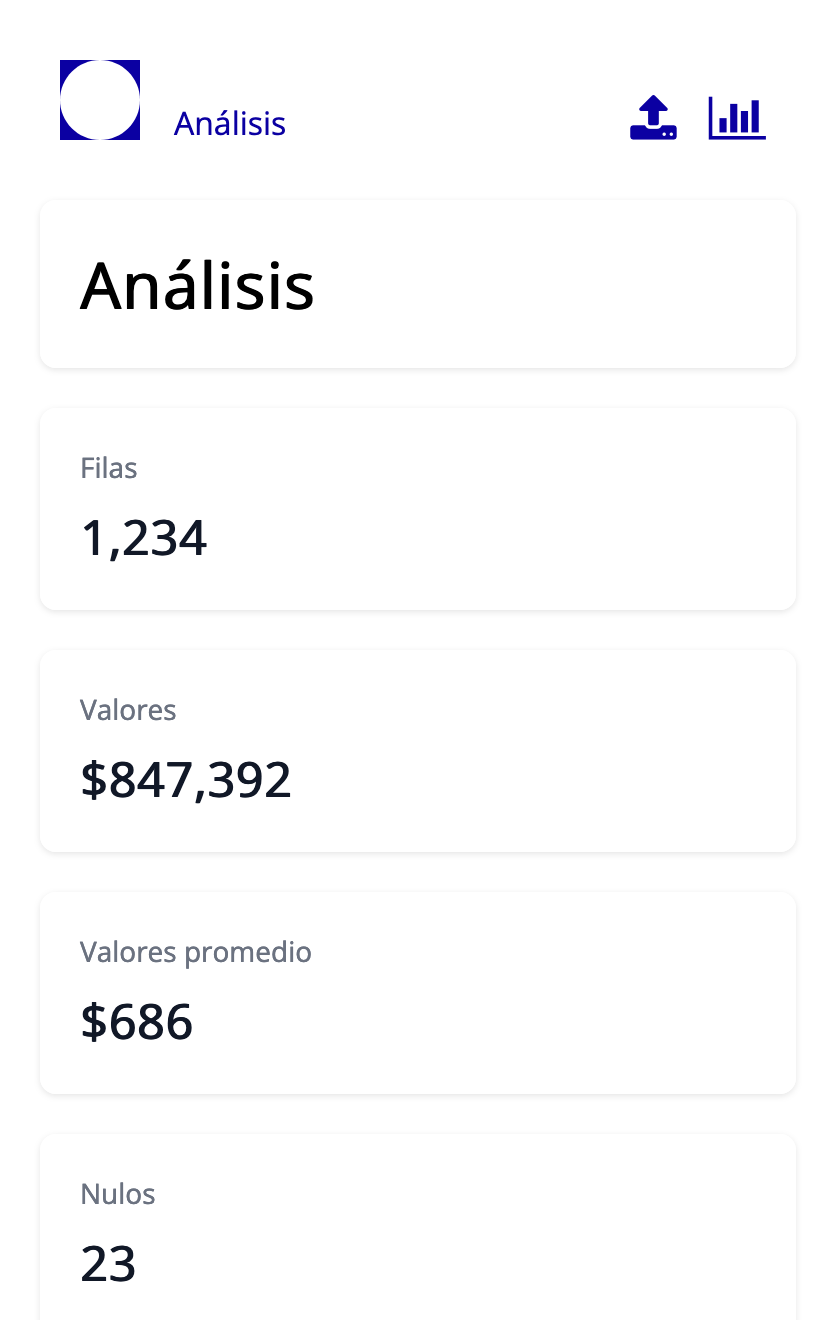
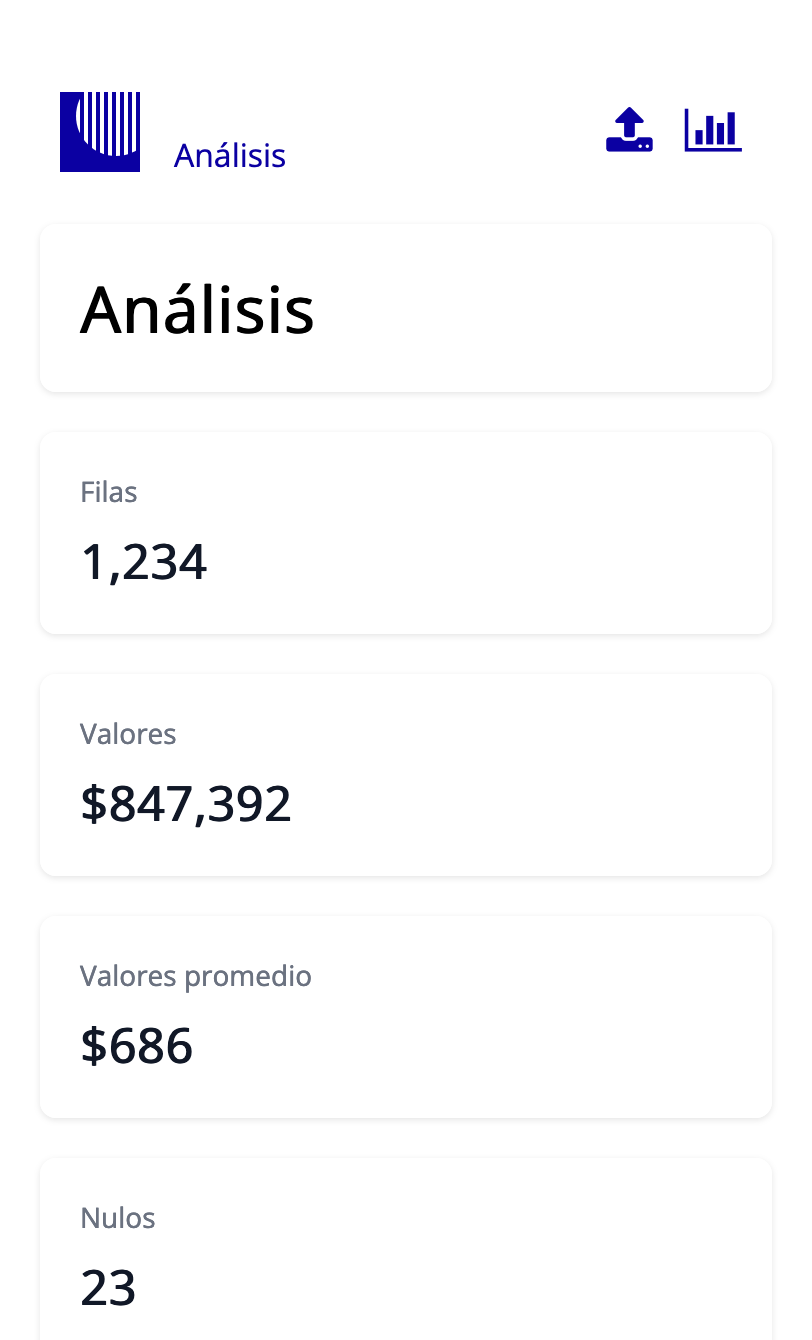
A R P A P P 1.0

diff --git a/static/chat.css b/static/chat.css
@@ -7,7 +7,7 @@
 }
 
 body {
-  background-color: rgb(255, 255, 255);
+  background-color: #ffffff;
   font-family: 'Open Sans', sans-serif;
   min-height: 100vh;
   display: flex;
@@ -16,15 +16,57 @@ body {
   
 }
 
+/*
+.logo {
+  cursor: pointer;
+  margin: 1rem auto; 
+  width: 70px;
+  height: 70px;
+  background-color: #0b00a2;
+  position: relative;
+}
+
+.logo:hover {
+  background-color: #1d10d3;
+}
+
+.logo::before {
+  content: "";
+  width: 70px;
+  height: 70px;
+  background-color: #f5f9fa;
+  border-radius: 50%;
+  position: absolute;
+  top: 50%;
+  left: 50%;
+  transform: translate(-50%, -50%);
+}
+*/
+
 .logoIN {
   cursor: pointer;
-  margin-bottom: 20px;
+  margin: 1rem auto;
   width: 40px;
   height: 40px;
   background-color: #0b00a2;
   position: relative;
   display: inline-flex;
   text-decoration:none
+}
+.logoIN::before {
+  content: "";
+  width: 40px;
+  height: 40px;
+  border-radius: 50%;
+  position: absolute;
+  top: 30%;
+  left: 70%;
+  transform: translate(-50%, -50%);
+  background-image: linear-gradient(to right, 
+      #ffffff 2px, transparent 1.5px,
+      transparent 1.5px, #ffffff 1.5px,
+      #ffffff 2px, transparent 1.5px);
+  background-size: 4px 100%; 
 }
 
 .nomPag{
@@ -37,19 +79,6 @@ body {
 
 .material-icons{
   color: #0b00a2;
-
-}
-.logoIN::before {
-  content: "";
-  display: block;
-  width: 40px;
-  height: 40px;
-  background-color: rgb(255, 255, 255);
-  border-radius: 50%;
-  position: absolute;
-  top: 50%;
-  left: 50%;
-  transform: translate(-50%, -50%);
 }
 
 .topnav i{
@@ -146,7 +175,7 @@ body {
   box-shadow: 0 4px 8px 0 rgba(0, 0, 0, 0.2);
   padding: 25px;
   text-align: center;
-  background-color: rgb(255, 255, 255);
+  background-color: #ffffff;
   border-radius: 10px;
   position: relative;
   width: 100%;

diff --git a/static/file.css b/static/file.css
@@ -16,15 +16,57 @@ body {
   
 }
 
+/*
+.logo {
+  cursor: pointer;
+  margin: 1rem auto; 
+  width: 70px;
+  height: 70px;
+  background-color: #0b00a2;
+  position: relative;
+}
+
+.logo:hover {
+  background-color: #1d10d3;
+}
+
+.logo::before {
+  content: "";
+  width: 70px;
+  height: 70px;
+  background-color: #f5f9fa;
+  border-radius: 50%;
+  position: absolute;
+  top: 50%;
+  left: 50%;
+  transform: translate(-50%, -50%);
+}
+*/
+
 .logoIN {
   cursor: pointer;
-  margin-bottom: 20px;
+  margin: 1rem auto;
   width: 40px;
   height: 40px;
   background-color: #0b00a2;
   position: relative;
   display: inline-flex;
   text-decoration:none
+}
+.logoIN::before {
+  content: "";
+  width: 40px;
+  height: 40px;
+  border-radius: 50%;
+  position: absolute;
+  top: 30%;
+  left: 70%;
+  transform: translate(-50%, -50%);
+  background-image: linear-gradient(to right, 
+      #ffffff 2px, transparent 1.5px,
+      transparent 1.5px, #ffffff 1.5px,
+      #ffffff 2px, transparent 1.5px);
+  background-size: 4px 100%; 
 }
 
 .nomPag{
@@ -38,18 +80,6 @@ body {
 .material-icons{
   color: #0b00a2;
 
-}
-.logoIN::before {
-  content: "";
-  display: block;
-  width: 40px;
-  height: 40px;
-  background-color: rgb(255, 255, 255);
-  border-radius: 50%;
-  position: absolute;
-  top: 50%;
-  left: 50%;
-  transform: translate(-50%, -50%);
 }
 
 .topnav i{

diff --git a/static/styleIN.css b/static/styleIN.css
@@ -15,6 +15,33 @@ body {
   padding: 20px; 
 }
 
+/*
+.logo {
+  cursor: pointer;
+  margin: 1rem auto; 
+  width: 70px;
+  height: 70px;
+  background-color: #0b00a2;
+  position: relative;
+}
+
+.logo:hover {
+  background-color: #1d10d3;
+}
+
+.logo::before {
+  content: "";
+  width: 70px;
+  height: 70px;
+  background-color: #f5f9fa;
+  border-radius: 50%;
+  position: absolute;
+  top: 50%;
+  left: 50%;
+  transform: translate(-50%, -50%);
+}
+*/
+
 .logoIN {
   cursor: pointer;
   margin: 1rem auto;

diff --git a/static/style.css b/static/style.css
@@ -52,8 +52,6 @@ body {
   background-color: #0b00a2;
   position: relative;
   overflow: hidden; 
-  
-  
 }
 
 .logo:hover {
@@ -70,9 +68,9 @@ body {
   left: 70%;
   transform: translate(-50%, -50%);
   background-image: linear-gradient(to right, 
-      #f5f9fa 3px, transparent 1px,
-      transparent 1px, #f5f9fa 1px,
-      #f5f9fa 3px, transparent 1px);
+      #ffffff 3px, transparent 1px,
+      transparent 1px, #ffffff 1px,
+      #ffffff 3px, transparent 1px);
   background-size: 5px 100%; 
 }
 

diff --git a/README.md b/README.md
@@ -43,9 +43,10 @@ Los beneficios clave de utilizar este RPA son:
   <tr>
     <td><img src="screenshots/login.png" alt="Captura de pantalla 1" width="200px"></td>
     <td><img src="screenshots/register.png" alt="Captura de pantalla 2" width="200px"></td>
-    <td><img src="screenshots/dashboard.png" alt="Captura de pantalla 3" width="200px"></td>
-    <td><img src="screenshots/chat.png" alt="Captura de pantalla 4" width="200px"></td>
-    <td><img src="screenshots/analisis.png" alt="Captura de pantalla 5" width="200px"></td>
+    <td><img src="screenshots/recover.png" alt="Captura de pantalla 3" width="200px"></td>
+    <td><img src="screenshots/dashboard.png" alt="Captura de pantalla 4" width="200px"></td>
+    <td><img src="screenshots/chat.png" alt="Captura de pantalla 5" width="200px"></td>
+    <td><img src="screenshots/analisis.png" alt="Captura de pantalla 6" width="200px"></td>
   </tr>
 </table>
 
